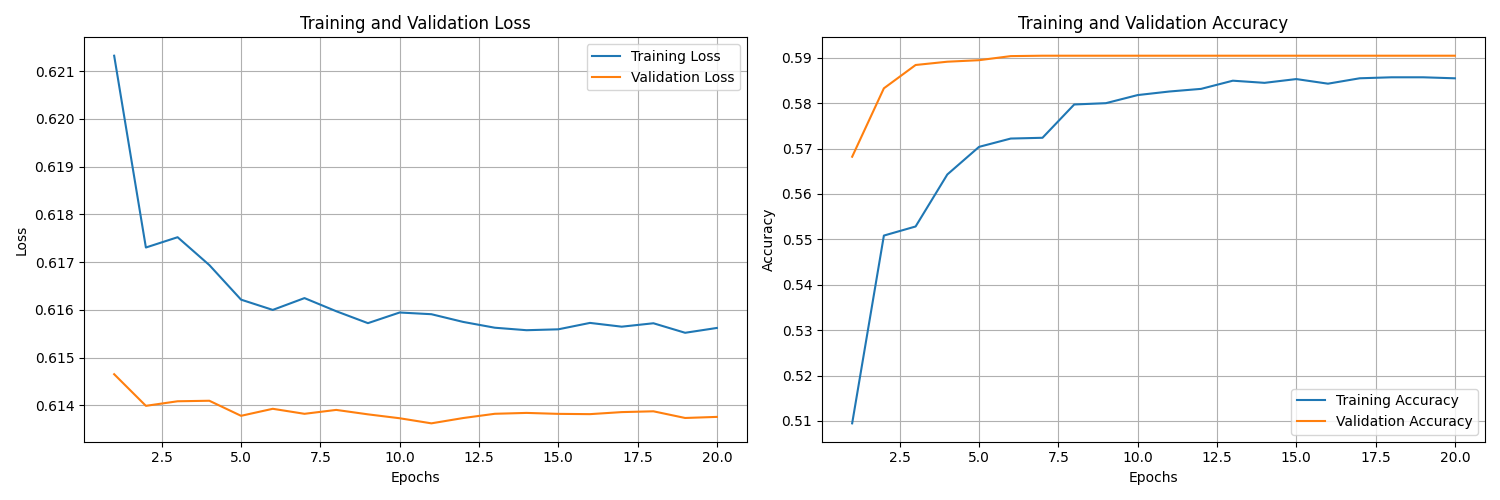
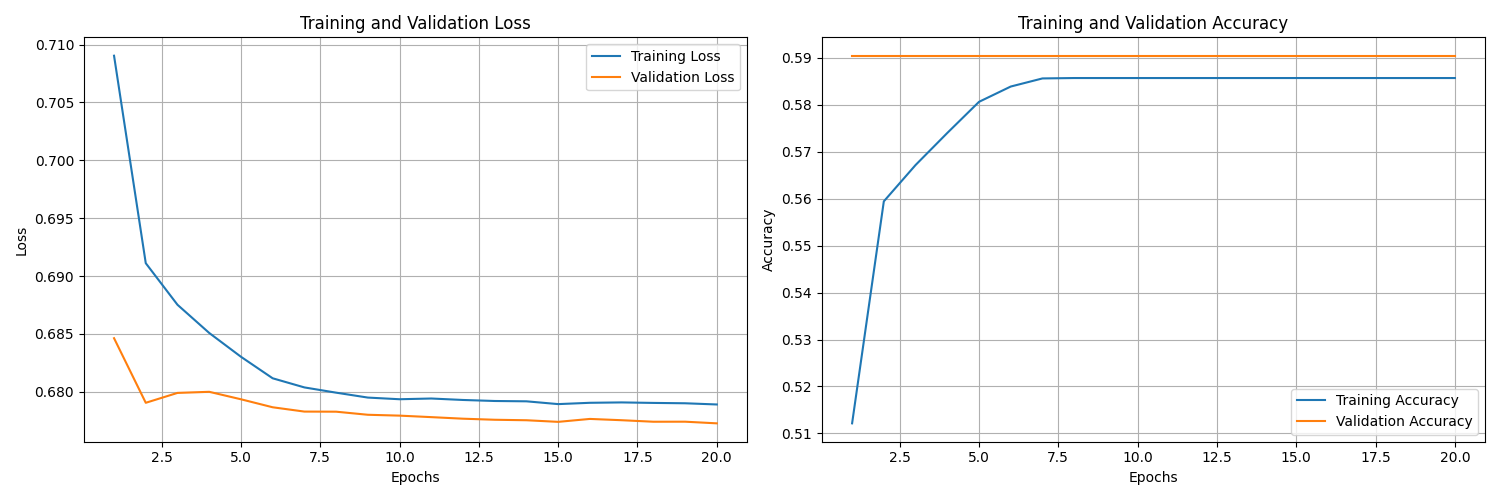
correzioni generali

diff --git a/NN_with_torch.py b/NN_with_torch.py
@@ -4,7 +4,7 @@ import torch
 import torch.nn as nn
 import torch.optim as optim
 from torch.utils.data import Dataset, DataLoader
-from torchvision import datasets, transforms
+from torchvision import transforms
 import tqdm
 import matplotlib.pyplot as plt
 import matplotlib.patches as mpatches
@@ -13,7 +13,6 @@ import os
 import cv2
 
 
-# Setting `torch.manual_seed(42)` ensures that the random number generation in PyTorch is deterministic and reproducible. 
 torch.cuda.empty_cache()
 torch.manual_seed(42)
 torch.cuda.manual_seed(42)
@@ -56,13 +55,22 @@ class CustomDataset(Dataset):
 
 # Define the neural network architecture
 class NeuralNetwork(nn.Module):
+    
+    # the net is inspired by:
+    # MobilNet -> Depthwise Separable Convolution, Relu6 (width multiplier)
+    # EfficientNet -> Depthwise Separable Convolution, (equation to choose parameters for best efficience), 
+    #                 (Expansion after depthwise conv and Swish activation function)
+    # U-Net -> Encoder-Decoder architecture, skip (connections)
+    
+    # (in brackets features are not implemented, also for complexity in MicroFlow implementation)
+    # The network needs to be lightweight and efficient.
+       
     def __init__(self, channels, strides):
         
         # Call the parent class constructor
         super(NeuralNetwork, self).__init__()
         
-        # ReLU activation function
-        # relu6? ##########################################################################################################################
+        # ReLU6 activation function
         self.relu6 = nn.ReLU6()
   
         # Dropout layer to prevent overfitting
@@ -70,7 +78,7 @@ class NeuralNetwork(nn.Module):
         
         # intial convolutional layer, followed by batch normalization
         out_channels = 8 
-        # out cghannels? ###########################################################
+        # out channels? ###############################################################################
         self.conv_init = nn.Conv2d(in_channels=3, out_channels=out_channels, kernel_size=5, stride=2, padding=2)
         self.bn_init = nn.BatchNorm2d(out_channels)
         
@@ -103,7 +111,7 @@ class NeuralNetwork(nn.Module):
 
         
         # Max pooling
-        # in teoria meglio per di avg pooling #####################################################################################################
+        # in teoria meglio di avg pooling #####################################################################################################
         self.max_pool = nn.MaxPool2d(kernel_size=2, stride=2)
         
         # Final layer that maps to the mask (80x80) dovrebbe essere ok ##############################################################################
@@ -195,20 +203,16 @@ def train_model(model, train_loader, val_loader, criterion, optimizer, num_epoch
             
             
             # Statistics
-            
+    
             # accumulate the loss for the current batch
             running_loss += loss.item() * inputs.size(0)
-            
-            # da sistemare ###########################################################################################################
-            
+             
             # Pixel-wise accuracy for binary mask
-            preds = (torch.sigmoid(outputs) > 0.5).float()
-            labels_bin = (labels > 0.5).float()
-            correct += (preds == labels_bin).float().sum().item()
+            preds = (torch.sigmoid(outputs) > 0.5)
+            labels_bin = (labels > 0.5)
+            correct += (preds == labels_bin).sum().item()
             total += labels.numel()
-            
-            # fino qui ###########################################################################################################
-        
+       
         epoch_loss = running_loss / len(train_loader.dataset)
         epoch_acc = correct / total
         
@@ -239,17 +243,15 @@ def train_model(model, train_loader, val_loader, criterion, optimizer, num_epoch
                 # Forward pass and compute the loss (no backward pass needed)
                 outputs = model(inputs)
                 loss = criterion(outputs, labels)
-                
-                # come prima ##################################################################################################################
-                
+                              
                 # Compute the statistics
                 val_loss += loss.item() * inputs.size(0)
+                
                 # Pixel-wise accuracy for binary mask
-                preds = (torch.sigmoid(outputs) > 0.5).float()
-                labels_bin = (labels > 0.5).float()
-                # fino qui ###################################################################################################################
-
-                val_correct += (preds == labels_bin).float().sum().item()
+                preds = (torch.sigmoid(outputs) > 0.5)
+                labels_bin = (labels > 0.5)
+                
+                val_correct += (preds == labels_bin).sum().item()
                 val_total += labels.numel()
             
             val_loss /= len(val_loader.dataset)
@@ -365,7 +367,7 @@ def main():
     
     # Hyperparameters
     
-    batch_size = 16
+    batch_size = 8
     learning_rate = 1e-3
     num_epochs = 20
     
@@ -373,16 +375,16 @@ def main():
     
     # Channel configuration for each block
     # Encoder path (increasing channels, decreasing spatial dimensions)
-    encoder_channels = [16, 32, 64]  # Added more layers for a deeper encoder
-    encoder_strides = [2, 2, 2]  # Added strides for the deeper encoder
+    encoder_channels = [16, 32, 64, 128, 256, 512]  # Much deeper encoder
+    encoder_strides = [2, 2, 2, 2, 2, 2]            # Strides for each encoder layer
     
     # Bottleneck
-    bottleneck_channels = [128]  # Added an additional bottleneck layer
-    bottleneck_strides = [1]  # Added an additional stride for the deeper bottleneck
+    bottleneck_channels = [1024, 1024, 1024]        # Deeper bottleneck
+    bottleneck_strides = [1, 1, 1]                  # Strides for bottleneck layers
            
     # Decoder path (decreasing channels)
-    decoder_channels = [64, 32, 16]  # Added more layers for a deeper decoder
-    decoder_strides = [2, 2, 2]  # Added strides for the deeper decoder
+    decoder_channels = [512, 256, 128, 64, 32, 16]  # Much deeper decoder
+    decoder_strides = [2, 2, 2, 2, 2, 2]            # Strides for each decoder layer
      
     ################################################################################################# 
         
@@ -408,19 +410,14 @@ def main():
     img_files = sorted([os.path.join(img_dir, f) for f in os.listdir(img_dir) if f.endswith(".png")])
     mask_files = sorted([os.path.join(mask_dir, f) for f in os.listdir(mask_dir) if f.endswith(".png")])
     
-    
-    # DEBUG         #######################################################################################################
-    # Limit data to a small subset for intentional overfitting
-    num_samples = 6  # Choose a small number (e.g., 4, 6, or 8)
-    img_files = img_files[:num_samples]
-    mask_files = mask_files[:num_samples]
+
     
     
     # Ensure the number of images matches the number of masks
     assert len(img_files) == len(mask_files), "Mismatch between images and masks"
     
     
-    # Define a dataset class for loading images and masks
+    # Define a dataset class for loading images and masks 
     class ImageMaskDataset(Dataset):
         def __init__(self, img_files, mask_files, transform=None):
             self.img_files = img_files
@@ -457,36 +454,7 @@ def main():
     val_loader = DataLoader(val_dataset, batch_size=batch_size)
     
     
-    # Riscrivo la funzione di loss ###########################################################################################
-    # Compute pos_weight for BCE
-    fg = sum((dataset[i][1] > 0.5).sum().item() for i in range(len(dataset)))
-    bg = sum((dataset[i][1] <= 0.5).sum().item() for i in range(len(dataset)))
-    pos_weight = torch.tensor([bg / (fg + 1e-8)])  # Avoid division by zero
-
-
-    # --- Define Dice + weighted BCE Loss function + L1 penalty on predicted mask ---
-    class DiceBCELoss(nn.Module):
-        def __init__(self, alpha=0.5, pos_weight=None, lambda_l1=0.05):
-            super(DiceBCELoss, self).__init__()
-            self.alpha = alpha
-            self.lambda_l1 = lambda_l1
-            self.bce = nn.BCEWithLogitsLoss(pos_weight=pos_weight)
-
-        def forward(self, outputs, targets):
-            bce_loss = self.bce(outputs, targets)
-            outputs_sigmoid = torch.sigmoid(outputs)
-            targets = targets.view_as(outputs_sigmoid)
-            intersection = (outputs_sigmoid * targets).sum()
-            smooth = 1.0
-            dice = (2.0 * intersection + smooth) / (outputs_sigmoid.sum() + targets.sum() + smooth)
-            dice_loss = 1 - dice
-            # L1 penalty on predicted mask (encourages sparsity)
-            l1_penalty = outputs_sigmoid.mean()
-            return self.alpha * bce_loss + (1 - self.alpha) * dice_loss + self.lambda_l1 * l1_penalty
-        
-        # Fino a qui ##########################################################################################################
-
-    # Initialize the model
+       # Initialize the model
     model = NeuralNetwork(channels, strides).to(device)
     
     # Print model size information
@@ -499,7 +467,8 @@ def main():
     print(f"Model size: {model_size_mb:.2f} MB")
     
     # Loss function and optimizer
-    criterion = DiceBCELoss(alpha=0.5, pos_weight=pos_weight.to(device), lambda_l1=0.2)
+    # It is possible to use the pos_weight parameter to balance the loss function ######################################
+    criterion = nn.BCEWithLogitsLoss()
     optimizer = optim.Adam(model.parameters(), lr=learning_rate)
     
     # Train the model

diff --git a/data_prep.py b/data_prep.py
@@ -62,7 +62,7 @@ def process_data(img_folder, mask_folder, folder_idx):
                     # reshape the image to 64x48
                     img_resized = cv2.resize(img, (64, 48))
                     
-                    # reshape the mask to 634x48
+                    # reshape the mask to 64x48
                     mask_resized = cv2.resize(mask, (64, 48))
                     
                     # format the name as frame{i}_{j}.png
